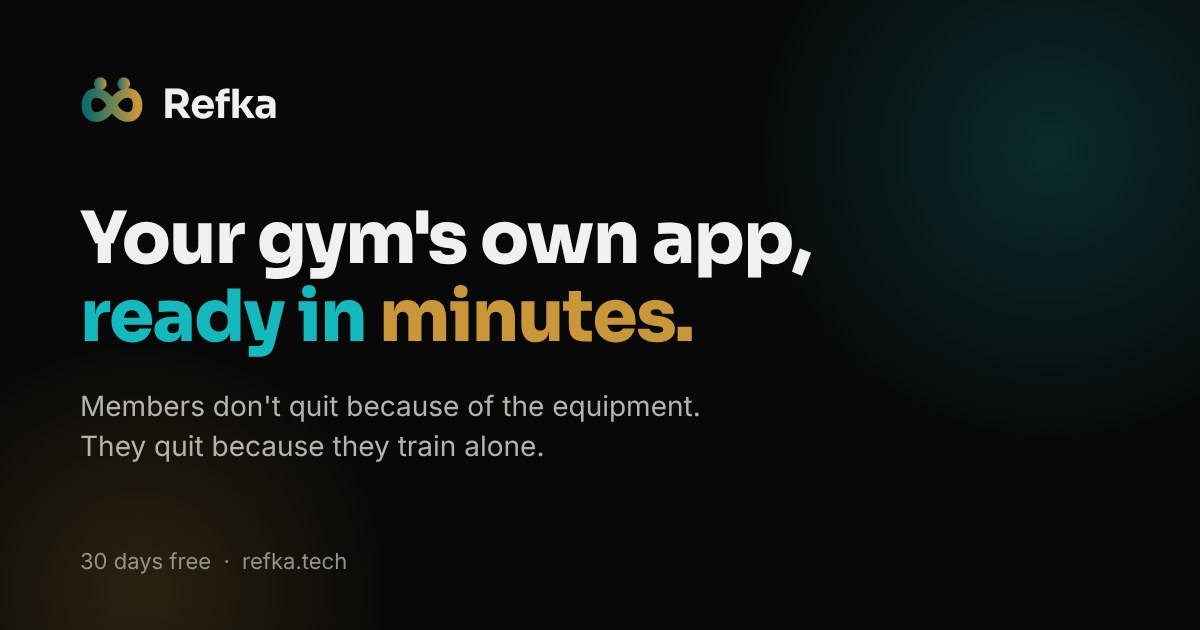
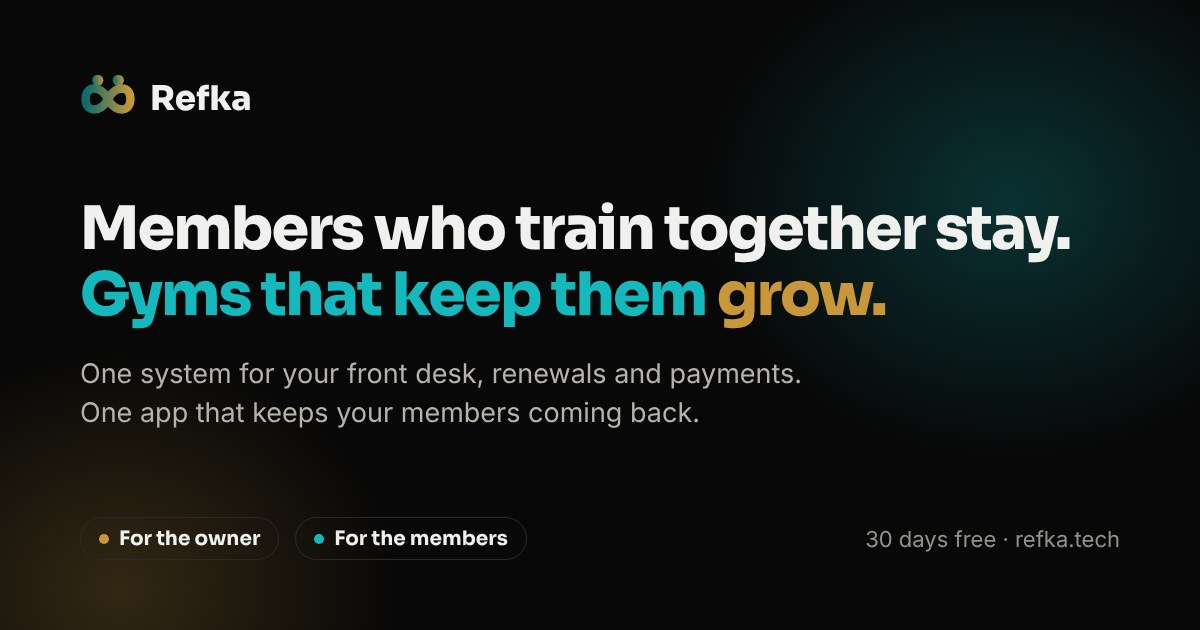
Fix 8 audit findings
- Link preview image shows the new headline (and ?v=5 so apps refetch it)
- Terms: trial within Growth plan limits; card renews, other methods get a
  payment link; 7-day grace then pause; member data kept 90 days (same in
  Terms 4, 5, 14, DPA 18.3 and Privacy 10)
- No cookie banner: the site sets no cookies. Cookie and Privacy policies
  rewritten to match (no Google Fonts, FormSubmit and GitHub Pages listed);
  cookieless Cloudflare Web Analytics ready behind CF_ANALYTICS_TOKEN
- Footer links no longer styled like the sticky header
- WhatsApp button no longer covers the last footer link
- Removed dead code that pointed at refka.io
- Phone demo controls read in the visitor's language

Claude-Session: https://claude.ai/code/session_01PNouyGu9Bj8YVHzyW7UtU1

diff --git a/index.html b/index.html
@@ -34,7 +34,7 @@
 <!-- Security. Inline scripts and inline event handlers are not allowed: every handler lives in /assets/js.
      JSON-LD blocks are data, not scripts, so the CSP does not apply to them.
      frame-ancestors cannot be set from a meta tag (see /_headers for hosts that support headers). -->
-<meta http-equiv="Content-Security-Policy" content="default-src 'self'; script-src 'self'; style-src 'self' 'unsafe-inline'; font-src 'self'; img-src 'self' data:; manifest-src 'self'; connect-src 'self' https://formsubmit.co; base-uri 'self'; form-action 'self' https://formsubmit.co; object-src 'none'">
+<meta http-equiv="Content-Security-Policy" content="default-src 'self'; script-src 'self' https://static.cloudflareinsights.com; style-src 'self' 'unsafe-inline'; font-src 'self'; img-src 'self' data:; manifest-src 'self'; connect-src 'self' https://formsubmit.co https://cloudflareinsights.com; base-uri 'self'; form-action 'self' https://formsubmit.co; object-src 'none'">
 <meta name="referrer" content="strict-origin-when-cross-origin">
 
 <!-- Icons -->
@@ -50,7 +50,7 @@
 <meta property="og:site_name" content="Refka">
 <meta property="og:title" content="Refka | Run your gym. Keep your members.">
 <meta property="og:description" content="Members who train together stay. Refka runs your front desk, collects renewals on WhatsApp and gives your members an app to train together. 30 days free.">
-<meta property="og:image" content="https://refka.tech/assets/images/og-image.jpg">
+<meta property="og:image" content="https://refka.tech/assets/images/og-image.jpg?v=5">
 <meta property="og:image:type" content="image/jpeg">
 <meta property="og:image:width" content="1200">
 <meta property="og:image:height" content="630">
@@ -59,7 +59,7 @@
 <meta name="twitter:card" content="summary_large_image">
 <meta name="twitter:title" content="Refka | Run your gym. Keep your members.">
 <meta name="twitter:description" content="One system for your front desk, renewals and payments, and an app that helps your members train together.">
-<meta name="twitter:image" content="https://refka.tech/assets/images/og-image.jpg">
+<meta name="twitter:image" content="https://refka.tech/assets/images/og-image.jpg?v=5">
 
 <!-- Fonts (self-hosted) and styles -->
 <link rel="preload" as="font" type="font/woff2" href="assets/fonts/sora-latin-800-normal.woff2" crossorigin>
@@ -247,10 +247,10 @@
         </div>
 
         <div class="ph-dots">
-          <button data-go="0" class="on" aria-label="Front desk"></button>
-          <button data-go="1" aria-label="WhatsApp reminders"></button>
-          <button data-go="2" aria-label="Money"></button>
-          <button data-go="3" aria-label="Members at risk"></button>
+          <button data-go="0" class="on" data-i18n-aria="ow_t2" aria-label="Desk"></button>
+          <button data-go="1" data-i18n-aria="ow_wa" aria-label="WhatsApp reminders"></button>
+          <button data-go="2" data-i18n-aria="ow_money" aria-label="Money in today"></button>
+          <button data-go="3" data-i18n-aria="ow_risk" aria-label="Stopped coming"></button>
         </div>
 
         <div class="ph-tabs">
@@ -374,10 +374,10 @@
         </div>
 
         <div class="ph-dots">
-          <button data-go="0" class="on" aria-label="Matching"></button>
-          <button data-go="1" aria-label="AI plan"></button>
-          <button data-go="2" aria-label="Store"></button>
-          <button data-go="3" aria-label="Community"></button>
+          <button data-go="0" class="on" data-i18n-aria="ph_partners" aria-label="Your training partners"></button>
+          <button data-go="1" data-i18n-aria="ph_tag" aria-label="AI training plan"></button>
+          <button data-go="2" data-i18n-aria="ph_store" aria-label="Shop at your gym"></button>
+          <button data-go="3" data-i18n-aria="ph_feed" aria-label="Community"></button>
         </div>
 
         <div class="ph-tabs">
@@ -707,7 +707,7 @@
     <button class="modal-close" data-click="closeModal" data-click-arg="privacyModal" aria-label="Close">✕</button>
     <div class="modal-badge">Legal Document</div>
     <h1 id="ppTitle">Privacy Policy</h1>
-    <div class="modal-meta">Effective: September 12, 2026 &nbsp;·&nbsp; Version 1.0 &nbsp;·&nbsp; Global scope</div>
+    <div class="modal-meta">Effective: October 18, 2026 &nbsp;·&nbsp; Version 1.1 &nbsp;·&nbsp; Global scope</div>
     <p class="modal-legal-note" style="display:none"></p>
 
     <h2>1. Who We Are</h2>
@@ -753,7 +753,10 @@
         <tr><td><strong>Google Firebase</strong></td><td>Cloud infrastructure, push notifications</td><td>USA / EU</td></tr>
         <tr><td><strong>Google Vision API</strong></td><td>One-time equipment photo recognition (photos deleted within 24 hrs)</td><td>USA</td></tr>
         <tr><td><strong>Stripe / Paymob</strong></td><td>Payment processing</td><td>USA / MENA</td></tr>
-        <tr><td><strong>360dialog / Twilio</strong></td><td>WhatsApp OTP and notifications</td><td>EU / USA</td></tr>
+        <tr><td><strong>360dialog / Twilio / Meta</strong></td><td>WhatsApp OTP, reminders and notifications</td><td>EU / USA</td></tr>
+        <tr><td><strong>GitHub Pages</strong></td><td>Hosting of the refka.tech website</td><td>USA</td></tr>
+        <tr><td><strong>FormSubmit</strong></td><td>Delivers the website sign-up and contact form to our inbox</td><td>International</td></tr>
+        <tr><td><strong>Cloudflare</strong></td><td>Website visit statistics without cookies (only if enabled)</td><td>Global</td></tr>
       </tbody>
     </table>
     <p>All sub-processors are contractually prohibited from using Refka data for any purpose beyond providing their service to us.</p>
@@ -766,7 +769,7 @@
     <p>Data may be transferred to the United States or other countries where our sub-processors operate. For EU/EEA/Albanian residents, transfers are protected by Standard Contractual Clauses (SCCs) under GDPR Art. 46(2)(c). For Saudi residents, transfers comply with PDPL Article 29 requirements.</p>
 
     <h2>10. Data Retention</h2>
-    <p>Active account data is retained for the duration of your account. Upon account deletion, personal data is soft-deleted immediately, then permanently purged within 30 days. Body composition data is deleted in full. Payment records are retained for 7 years (legal obligation). Equipment recognition photos are deleted within 24 hours of processing.</p>
+    <p>Active account data is retained for the duration of your account. When you ask us to delete your account, personal data is soft-deleted immediately, then permanently purged within 30 days. Body composition data is deleted in full. Payment records are retained for 7 years (legal obligation). Equipment recognition photos are deleted within 24 hours of processing.</p>
     <p>Gym owner business contact details (your name, your gym's name, phone, email and country) are kept after a free trial ends, a subscription is cancelled or an account is paused, so that we can stay in touch with you about Refka. We keep them on the basis of our legitimate interest in our business relationship with you. You can ask us to delete them at any time by writing to community@refka.tech, and every message we send tells you how to stop further messages. Your gym's member data is handled separately: it is deleted 90 days after your gym's account is paused, unless you reactivate it.</p>
 
     <h2>11. Your Rights</h2>
@@ -775,7 +778,7 @@
     <p>To exercise your rights: <strong>community@refka.tech</strong>. We respond within 30 days.</p>
 
     <h2>12. Cookies</h2>
-    <p>We use essential cookies (required for login sessions), analytics cookies (to understand platform usage; opt-out available in settings), and preference cookies (language, display). We do not use advertising cookies or cross-site tracking.</p>
+    <p>The refka.tech website sets no cookies. It saves your language and country choice in your browser's local storage, and any visit statistics are collected without cookies. The Refka app uses only essential cookies or storage to keep you signed in and to protect your account. We do not use advertising cookies or cross-site tracking. Details are in our Cookie Policy.</p>
 
     <h2>13. Children</h2>
     <p>Refka is not directed at individuals under 16. If a gym registers a member under 16, the gym owner is responsible for obtaining valid parental consent. Contact community@refka.tech to report any inadvertent collection involving a minor.</p>
@@ -813,7 +816,7 @@
     <button class="modal-close" data-click="closeModal" data-click-arg="termsModal" aria-label="Close">✕</button>
     <div class="modal-badge">Legal Document</div>
     <h1 id="tosTitle">Terms of Service</h1>
-    <div class="modal-meta">Effective: September 12, 2026 &nbsp;·&nbsp; Version 1.0 &nbsp;·&nbsp; Global scope</div>
+    <div class="modal-meta">Effective: October 18, 2026 &nbsp;·&nbsp; Version 1.1 &nbsp;·&nbsp; Global scope</div>
     <p class="modal-legal-note" style="display:none"></p>
 
     <h2>1. Acceptance</h2>
@@ -828,14 +831,14 @@
     <p>Gym owners are responsible for their gym's compliance with applicable local laws, including laws governing the collection of member data and parental consent for minors.</p>
 
     <h2>4. Subscription Plans and Payment</h2>
-    <p>Refka offers paid subscription plans billed monthly or annually. Pricing is set in US dollars per geographic zone and displayed in your local currency at the current exchange rate. Your zone is determined by your gym's country at registration. All prices are exclusive of applicable taxes, which will be added at checkout where required by law.</p>
-    <p>Subscriptions renew automatically at the end of each billing period unless cancelled before the renewal date. You authorize Refka (via Stripe or Paymob) to charge your payment method on file for all amounts due.</p>
+    <p>Refka offers paid subscription plans billed monthly or annually. In Egypt, Saudi Arabia, the United Arab Emirates and the euro countries, prices are fixed in the local currency. Elsewhere, prices are set in US dollars per geographic zone and shown in your local currency for reference. Your zone and currency are set by your gym's country at registration. All prices are exclusive of applicable taxes, which will be added at checkout where required by law.</p>
+    <p>Subscriptions paid by card renew automatically at the end of each billing period unless cancelled before the renewal date, and you authorize Refka (via Stripe or Paymob) to charge your card for all amounts due. For payment methods that do not renew automatically, such as InstaPay or Vodafone Cash in Egypt, we send you a payment link before each renewal date.</p>
     <div class="modal-warning">
-      <p><strong>Important:</strong> Failure to pay amounts due will result in service suspension after a 7-day grace period, followed by account termination after 30 days if payment is not received.</p>
+      <p><strong>Important:</strong> If a payment fails or is not made by the renewal date, you have a 7-day grace period. After it, your Refka account is paused and you and your staff cannot use it until the payment is made. Your gym's member data is kept for 90 days after the account is paused, then permanently deleted unless you reactivate. Your own business contact details are handled as described in section 10 of the Privacy Policy.</p>
     </div>
 
     <h2>5. Free Trial</h2>
-    <p>New gym owner accounts receive a 30-day free trial with access to all features, limited to 30 active members, 1 trainer and 20 AI-generated plans for the duration of the trial. No credit card is required to start a trial. At the end of the trial period, your account will be paused unless you select a paid plan. Trial data (gym profile, members, plans) is retained for 30 days after trial expiry before permanent deletion.</p>
+    <p>New gym owner accounts receive a 30-day free trial with access to all features, within the limits of the Growth plan for your zone (up to 500 active members, 10 trainers and the Growth plan's monthly AI plan quota). No credit card is required to start a trial. If you choose a paid plan during the trial, you keep your remaining free days and the paid plan starts when the trial ends. At the end of the trial period, your account will be paused unless you select a paid plan. Member data is kept for 90 days after the account is paused, then permanently deleted unless you reactivate.</p>
     <p>Refka reserves the right to modify or discontinue the free trial offer at any time without notice. One free trial per gym owner. Trial abuse, including creating multiple accounts to extend trial access, is grounds for immediate account termination.</p>
 
     <h2>6. Cancellation and Refunds</h2>
@@ -874,7 +877,7 @@
 
     <h2>14. Suspension and Termination</h2>
     <p>Refka may suspend or terminate your account immediately and without notice if: you materially breach these Terms and fail to cure the breach within 7 days of written notice; you engage in fraudulent, abusive, or illegal activity; non-payment of amounts due; or we are required to do so by applicable law or court order.</p>
-    <p>Upon termination by either party: your access to the Service ceases immediately; your data will be retained for 30 days during which you may export it; after 30 days, your data will be permanently deleted except where retention is required by law (e.g., billing records).</p>
+    <p>Upon termination by either party: your access to the Service ceases immediately; your gym's data, including member data, is retained for 90 days, during which you may export it or reactivate your account; after 90 days, it is permanently deleted except where retention is required by law (e.g., billing records). Your own business contact details are handled as described in section 10 of the Privacy Policy.</p>
     <p>You may terminate your account at any time from account settings. Termination by you does not entitle you to any refund of prepaid subscription fees.</p>
 
     <h2>15. Governing Law and Dispute Resolution</h2>
@@ -902,7 +905,7 @@
     Refka processes the following categories of personal data on behalf of the gym owner: member identity (name, phone), fitness profile (goal, level, training days), body composition data (weight, height, body fat, muscle mass), attendance records, AI-generated fitness and nutrition plans, and training partner matching data. Processing is conducted solely for the purpose of providing the Refka platform services to the gym owner and their members.</p>
 
     <p><strong>18.3 Duration</strong><br>
-    This DPA is effective for the duration of the gym owner's subscription. On termination, Refka will delete or return member data within 30 days as described in Section 14 of these Terms, unless retention is required by law.</p>
+    This DPA is effective for the duration of the gym owner's subscription. On termination or when the gym's account is paused, Refka will delete or return member data within 90 days as described in Section 14 of these Terms, unless retention is required by law.</p>
 
     <p><strong>18.4 Refka's Obligations as Processor</strong><br>
     Refka will: process member data only on the gym owner's documented instructions (which are defined by your use of the platform's features); ensure all personnel with access to member data are bound by confidentiality obligations; implement appropriate technical and organizational security measures (encryption at rest and in transit, access controls, audit logging); assist the gym owner in fulfilling data subject rights requests that are received by Refka; notify the gym owner within 72 hours of becoming aware of a personal data breach affecting their members' data; and not engage sub-processors beyond those listed in the Privacy Policy without informing gym owners of material changes.</p>
@@ -945,33 +948,28 @@
     <button class="modal-close" data-click="closeModal" data-click-arg="cookieModal" aria-label="Close">✕</button>
     <div class="modal-badge">Legal Document</div>
     <h1 id="cookieTitle">Cookie Policy</h1>
-    <div class="modal-meta">Effective: September 12, 2026 &nbsp;·&nbsp; Version 1.0 &nbsp;·&nbsp; Global scope</div>
+    <div class="modal-meta">Effective: October 18, 2026 &nbsp;·&nbsp; Version 1.1 &nbsp;·&nbsp; Global scope</div>
     <p class="modal-legal-note" style="display:none"></p>
 
     <h2>1. What Are Cookies</h2>
     <p>Cookies are small text files stored on your device when you visit a website or use a web application. They allow us to recognize your browser, maintain your session, remember your preferences, and understand how our platform is used. We also use similar technologies such as local storage and session storage.</p>
 
-    <h2>2. Cookies We Use</h2>
-    <p><strong>Essential Cookies (always active):</strong> Required for the platform to function. Includes session authentication tokens, CSRF protection tokens, language preference, and your cookie consent choice. These cannot be disabled.</p>
-    <p><strong>Analytics Cookies (optional, requires your consent):</strong> We use anonymized analytics to understand how users navigate the platform. We use privacy-respecting analytics tools that do not build advertising profiles. You can opt out by clicking "Essential only" in our cookie banner.</p>
-    <p><strong>Performance Cookies (optional, requires your consent):</strong> Help us monitor platform stability and performance. Data is aggregated and never linked to individual identities.</p>
-    <p>We do <strong>not</strong> use advertising, tracking, or third-party marketing cookies. We do not sell cookie data to any party.</p>
+    <h2>2. What This Website Stores</h2>
+    <p><strong>No cookies.</strong> The refka.tech website does not set any cookies.</p>
+    <p><strong>Your preferences, in your browser only:</strong> the website saves the language and the country you choose in your browser's local storage, so the text and the prices stay the same on your next visit. For the current visit only, it also remembers that you closed the WhatsApp message. This information stays on your device and is not sent to us or anyone else.</p>
+    <p><strong>Visit statistics:</strong> if we measure visits to the website, we use Cloudflare Web Analytics, which does not use cookies, does not store your IP address and does not follow you across other websites.</p>
 
-    <h2>3. Third-Party Services</h2>
-    <p>Our platform loads assets from: Google Fonts (fonts). Payment processors Stripe and Paymob handle payments in their own secure environments and do not place cookies on our marketing site. Each provider operates under their own privacy policy.</p>
+    <h2>3. The Refka App</h2>
+    <p>When you sign in to the Refka app, it uses essential cookies or storage to keep you signed in and to protect your account (session and security tokens). These are strictly necessary for the app to work and cannot be switched off. The app does not use advertising or tracking cookies.</p>
 
-    <h2>4. How to Manage Cookies</h2>
-    <ul>
-      <li><strong>Cookie banner:</strong> Choose "Essential only" or "Accept all" when you first visit. Change your choice by clearing this site's local storage in your browser settings.</li>
-      <li><strong>Browser settings:</strong> All modern browsers let you view, block, or delete cookies. Blocking essential cookies will prevent login and core features from working.</li>
-      <li><strong>Browser extensions:</strong> Tools like uBlock Origin give you granular control over which cookies are set.</li>
-    </ul>
+    <h2>4. Third-Party Services</h2>
+    <p>Fonts and images on the website are served from our own server. The sign-up form sends your details to our inbox through FormSubmit. The WhatsApp button opens WhatsApp only when you click it, and WhatsApp's own privacy policy then applies. Payment processors Stripe and Paymob handle payments in their own secure environments.</p>
 
-    <h2>5. Retention</h2>
-    <p>Session cookies expire when you close your browser or after 30 days of inactivity. Preference cookies persist for 12 months. Analytics data is retained for 13 months, then automatically deleted.</p>
+    <h2>5. How to Manage Your Preferences</h2>
+    <p>You can delete the saved language and country at any time by clearing this site's data in your browser settings. All modern browsers also let you view, block or delete cookies and stored data for any site.</p>
 
     <h2>6. Legal Basis</h2>
-    <p>Essential cookies: <strong>legitimate interest</strong> (no consent required under GDPR for strictly necessary cookies). Analytics and performance cookies: your <strong>explicit consent</strong>, which you may withdraw at any time.</p>
+    <p>The website stores only what is needed to remember the choices you made, so no consent banner is needed. Cookies in the Refka app are strictly necessary for the service you asked for (legitimate interest and performance of a contract). We do not use cookies that require your consent; if that ever changes, we will ask you first.</p>
 
     <h2>7. Contact</h2>
     <p>Questions about cookies? Contact us at <a href="mailto:community@refka.tech">community@refka.tech</a>.</p>
@@ -1062,16 +1060,7 @@
   <button type="button" class="wa-x" id="waClose" data-i18n-aria="fm_close" aria-label="Close">&#x2715;</button>
 </div>
 
-<div id="cookieBanner" role="complementary" aria-label="Cookie consent">
-  <p class="cookie-text" id="cookieText">
-    We use essential cookies for authentication and optional analytics cookies to improve the platform.
-    See our <a href="#" data-click="openModal" data-click-arg="cookieModal">Cookie Policy</a> for details.
-  </p>
-  <div class="cookie-btns">
-    <button class="cookie-decline" id="cookieEss" data-click="setCookieChoice" data-click-arg="essential">Essential only</button>
-    <button class="cookie-accept" id="cookieAll" data-click="setCookieChoice" data-click-arg="all">Accept all</button>
-  </div>
-</div>
+
 
 <!-- ══════════════════════════════════════════════ -->
 <!-- MODAL + COOKIE JS                             -->

diff --git a/assets/js/app.js b/assets/js/app.js
@@ -291,24 +291,11 @@ function setBilling(b) {
 // Live FX: the production server injects window.REFKA_FX (daily rates, USD base) before this script.
 // No third-party call from the browser (GDPR: no visitor IP sent to an FX provider without consent).
 
-// Registration hand-off: the app receives plan, country and language.
-function goRegister(plan) {
-  var u = 'https://app.refka.io/register?lang=' + encodeURIComponent(_lang) +
-          '&country=' + encodeURIComponent(_country) + (plan ? '&plan=' + plan : '');
-  openOut(u);
-}
-function goContact() { openOut('https://app.refka.io/contact?lang=' + encodeURIComponent(_lang)); }
-// On refka.io: same tab. Anywhere else (previews, embeds): new tab, never navigate the frame itself,
-// because sandboxed previews block in-frame navigation to other sites ("This content is blocked").
-function openOut(u) {
-  if (/(^|\.)refka\.io$/.test(location.hostname)) { window.location.href = u; return; }
-  var w = null;
-  try { w = window.open(u, '_blank', 'noopener'); } catch(e) {}
-  if (!w) {
-    var a = document.createElement('a'); a.href = u; a.target = '_blank'; a.rel = 'noopener';
-    document.body.appendChild(a); a.click(); a.remove();
-  }
-}
+// goRegister, goContact and openOut are defined in form.js (loaded after this file):
+// until the app exists they open the sign-up form; APP_URL there switches them to the app.
+function goRegister(plan) {}
+function goContact() {}
+function openOut(u) {}
 
 // ═══════════════════════════════════════════════════════════════
 // LANGUAGE
@@ -349,10 +336,6 @@ function applyLang(code) {
     g('evMon').textContent = new Intl.DateTimeFormat(numLocale(), { month:'short' }).format(d).replace('.', '').toUpperCase();
   } catch(e) {}
 
-  // Cookie banner
-  var ck = g('cookieText'); if (ck) ck.innerHTML = t.ck_txt || T.en.ck_txt;
-  var ce = g('cookieEss'); if (ce) ce.textContent = t.ck_ess || T.en.ck_ess;
-  var ca = g('cookieAll'); if (ca) ca.textContent = t.ck_all || T.en.ck_all;
 
   // Legal documents are English-only: say so in the visitor's language
   document.querySelectorAll('.modal-legal-note').forEach(function(el) {
@@ -512,16 +495,6 @@ document.addEventListener('keydown', function(e) {
   if (e.key === 'Escape') document.querySelectorAll('.modal-overlay.open').forEach(function(m){ closeModal(m.id); });
 });
 
-// ─── COOKIE ──────────────────────────────────────────────────
-function setCookieChoice(c) {
-  try { localStorage.setItem('rfk_cookie', c); } catch(e) {}
-  var b = g('cookieBanner'); if (b) b.classList.remove('show');
-}
-(function() {
-  var s; try { s = localStorage.getItem('rfk_cookie'); } catch(e) {}
-  if (!s) setTimeout(function() { var b = g('cookieBanner'); if (b) b.classList.add('show'); }, 1200);
-})();
-
 // ═══════════════════════════════════════════════════════════════
 // MATCHING DEMO PHOTOS: a men's pair and a women's pair of real members.
 // The visitor's country picks which pair shows first; every loop of the
@@ -588,4 +561,18 @@ function setWhatsApp() {
   var bl = g('waBubbleLink'); if (bl) bl.addEventListener('click', hideBub);
   fab.addEventListener('click', function() { hideBub(); if (window.gtag) gtag('event', 'whatsapp_click', { language: _lang, country: _country }); });
   setWhatsApp();
+})();
+
+// ═══════════════════════════════════════════════════════════════
+// VISIT STATISTICS: Cloudflare Web Analytics. No cookies, no IP stored,
+// no cross-site tracking, so no consent banner is needed. Off until the
+// token from the Cloudflare dashboard is pasted here, and only on refka.tech.
+// ═══════════════════════════════════════════════════════════════
+var CF_ANALYTICS_TOKEN = '';
+(function() {
+  if (!CF_ANALYTICS_TOKEN || !/(^|\.)refka\.tech$/.test(location.hostname)) return;
+  var sc = document.createElement('script');
+  sc.defer = true; sc.src = 'https://static.cloudflareinsights.com/beacon.min.js';
+  sc.setAttribute('data-cf-beacon', JSON.stringify({ token: CF_ANALYTICS_TOKEN }));
+  document.head.appendChild(sc);
 })();

diff --git a/assets/css/site.css b/assets/css/site.css
@@ -27,8 +27,8 @@ body { background: var(--bg); color: var(--t1); font-family: var(--inter); line-
 .fade.in { opacity: 1; transform: none; }
 .d1 { transition-delay: .1s; } .d2 { transition-delay: .2s; } .d3 { transition-delay: .3s; } .d4 { transition-delay: .4s; }
 
-/* NAV */
-nav {
+/* NAV (the header only: the footer has its own <nav class="f-links">) */
+body > nav {
   position: sticky; top: 0; z-index: 200;
   display: flex; align-items: center; justify-content: space-between;
   padding: 0 64px; height: 64px;
@@ -290,7 +290,7 @@ footer { background: #040404; padding: 30px 64px 20px; display: flex; flex-direc
 
 /* RESPONSIVE */
 @media (max-width: 900px) {
-  nav { padding: 0 20px; }
+  body > nav { padding: 0 20px; }
   .nav-links, .nav-right .btn-teal { display: none; }
   .burger { display: flex; }
   #hero { grid-template-columns: 1fr; padding: 48px 20px 40px; min-height: auto; gap: 32px; }
@@ -930,3 +930,8 @@ html[lang="ar"] .wa-bubble { font-family: var(--arabic); }
 .hero-devices { text-align: start; }
 .ow-m { white-space: normal; line-height: 1.2; display: flex; align-items: center; justify-content: center; overflow: visible; }
 @media (max-width: 767px) { .wa-bubble { display: none !important; } }
+
+/* keep the floating WhatsApp button clear of the last footer line */
+footer { padding-bottom: 96px; }
+@media (max-width: 900px) { footer { padding-bottom: 96px; } }
+@media (max-width: 600px) { .f-legal-sep { display: none; } .f-legal { gap: 8px 16px; } }

diff --git a/assets/js/form.js b/assets/js/form.js
@@ -14,8 +14,7 @@ var CLICK_ACTIONS = {
   scrollHow: function () { var h = g('how'); if (h) h.scrollIntoView({ behavior: 'smooth' }); },
   openModal: function (arg) { openModal(arg); },
   closeModal: function (arg) { closeModal(arg); },
-  setBilling: function (arg) { setBilling(arg); },
-  setCookieChoice: function (arg) { setCookieChoice(arg); }
+  setBilling: function (arg) { setBilling(arg); }
 };
 document.addEventListener('click', function (e) {
   var el = e.target.closest ? e.target.closest('[data-click]') : null;

diff --git a/README.md b/README.md
@@ -61,7 +61,10 @@ refka.tech run in preview mode and send nothing.
   `<script>` blocks with code. Make an element clickable with `data-click="action"` (plus
   `data-click-arg` if needed) and add the action to `CLICK_ACTIONS` in `form.js`.
 - **No third-party scripts, fonts or images.** Anything new must be added to the CSP on purpose
-  (and to the cookie policy, if it sets cookies). Analytics must load only after "Accept all".
+  and to the Cookie Policy and Privacy Policy. The site sets no cookies, so it has no cookie banner:
+  adding anything that sets cookies means bringing back a consent banner first.
+- **Visit statistics:** Cloudflare Web Analytics (cookieless). Paste the token from the Cloudflare
+  dashboard into `CF_ANALYTICS_TOKEN` in `assets/js/app.js`; it loads only on refka.tech.
 - **Keep the two CSPs identical**: the `<meta>` tag in `index.html` and `_headers`.
 - **Relative asset paths** (`assets/…`) in `index.html`, so the page also works from a preview.
 
